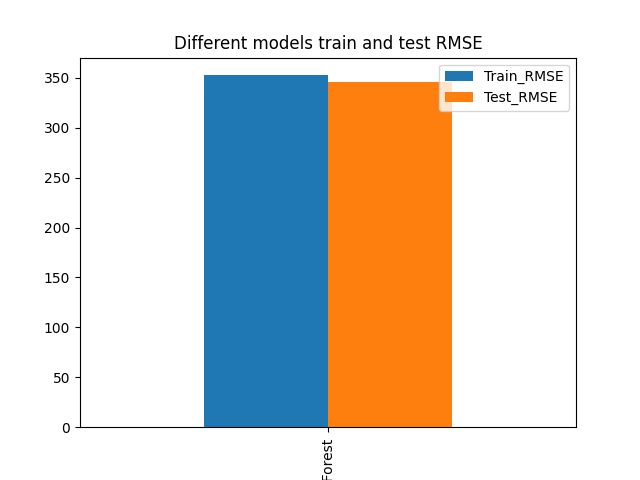
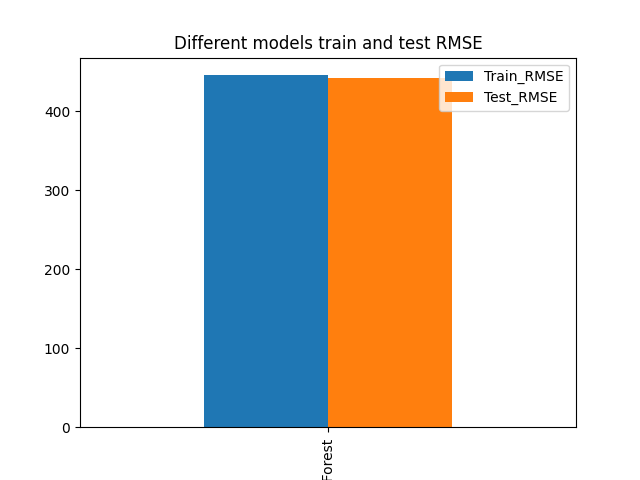
experiment ran

diff --git a/reports/metrics_report.html b/reports/metrics_report.html
@@ -9,22 +9,22 @@
             <h1>Comparative charts for Different scoring metrics of the models</h1>
             
                 <div>
-                    <img src="C:\Users\Aman Gupta\test\nyc_taxi_trip_duration_predictor\reports\figures\scoring_metrices\Different models train and test MAE.png" alt="Different models train and test MAE.png">
+                    <img src="C:\Users\Aman Gupta\NYC-Taxi-Trip-Duration-Predictor\reports\figures\scoring_metrices\Different models train and test MAE.png" alt="Different models train and test MAE.png">
                     <br>
                 </div>
             
                 <div>
-                    <img src="C:\Users\Aman Gupta\test\nyc_taxi_trip_duration_predictor\reports\figures\scoring_metrices\Different models train and test R2_SCORE.png" alt="Different models train and test R2_SCORE.png">
+                    <img src="C:\Users\Aman Gupta\NYC-Taxi-Trip-Duration-Predictor\reports\figures\scoring_metrices\Different models train and test R2_SCORE.png" alt="Different models train and test R2_SCORE.png">
                     <br>
                 </div>
             
                 <div>
-                    <img src="C:\Users\Aman Gupta\test\nyc_taxi_trip_duration_predictor\reports\figures\scoring_metrices\Different models train and test RMSE.png" alt="Different models train and test RMSE.png">
+                    <img src="C:\Users\Aman Gupta\NYC-Taxi-Trip-Duration-Predictor\reports\figures\scoring_metrices\Different models train and test RMSE.png" alt="Different models train and test RMSE.png">
                     <br>
                 </div>
             
                 <div>
-                    <img src="C:\Users\Aman Gupta\test\nyc_taxi_trip_duration_predictor\reports\figures\scoring_metrices\Different models train and test RMSPE.png" alt="Different models train and test RMSPE.png">
+                    <img src="C:\Users\Aman Gupta\NYC-Taxi-Trip-Duration-Predictor\reports\figures\scoring_metrices\Different models train and test RMSPE.png" alt="Different models train and test RMSPE.png">
                     <br>
                 </div>
             

diff --git a/deployement/app.py b/deployement/app.py
@@ -1,6 +1,6 @@
 from flask import Flask, render_template, request
 from predictor import TripDurationPredictor
-
+from logger import infologger
 
 app = Flask(__name__)
 
@@ -20,12 +20,15 @@ def predict():
     form_data['dropoff_longitude'] = request.form.get('dropoff_longitude',type=float)
     form_data['pickup_datetime'] = request.form.get('pickup_datetime')
     form_data['store_and_fwd_flag'] = request.form.get('store_and_fwd_flag')
-    print(form_data)
-    duration = TripDurationPredictor()
-    pred = duration.predict_duration(form_data)[0].item()
-    pred_time = round(pred/60,2)
-
-    return render_template('predict.html',pred_time = pred_time)
+    try:
+        duration = TripDurationPredictor()
+        pred = duration.predict_duration(form_data)[0].item()
+        pred_time = round(pred/60,2)
+        return render_template('predict.html',pred_time = pred_time)
+    
+    except Exception as e:
+         infologger.info(f'Failed with error : {e}')
+         print(f'Failed with error : {e}')
 
 
 if __name__ == "__main__":

diff --git a/src/features/build_features.py b/src/features/build_features.py
@@ -169,7 +169,7 @@ class BuildFeatures:
 @click.command()
 @click.argument('input_filepath', type=click.Path())
 @click.argument('output_filepath', type=click.Path())
-@click.argument('modelpath', type= click.Path())
+@click.argument('model_filepath', type= click.Path())
 def main(input_filepath, output_filepath, model_filepath):
     
     """ Runs feature building script to turn train and test data from given input path
@@ -182,7 +182,7 @@ def main(input_filepath, output_filepath, model_filepath):
     data_dir = Path(home_dir.as_posix() + '/data')
     input_path = Path(data_dir.as_posix() + input_filepath)
     output_path = Path(data_dir.as_posix() + output_filepath)
-    locmodel_path = Path(data_dir.as_posix() + model_filepath)
+    locmodel_path = Path(home_dir.as_posix() + model_filepath)
 
     #initiating a class object 
     feat = BuildFeatures()

diff --git a/src/models/hyperparameters.py b/src/models/hyperparameters.py
@@ -18,8 +18,8 @@ hyperparameters = {
             },
     'RandomForest': 
            {
-                'n_estimators' : hp.choice('n_estimators', [50,80,120]), 
-                'max_depth': hp.choice('max_depth', [8,10,15,20,30,40 ]), 
+                'n_estimators' : hp.choice('n_estimators', [5,8,10]), 
+                'max_depth': hp.choice('max_depth', [6,8,10 ]), 
                 'max_features': hp.choice('max_features', ['sqrt', 'log2', None]),
                 'min_samples_split': scope.int(hp.uniform('min_Samples_split',200,400)),
                 'max_samples': hp.uniform('max_sample',0.4,0.8)

diff --git a/src/models/train_model.py b/src/models/train_model.py
@@ -38,7 +38,7 @@ class TrainModel:
         self.output_path = output_path
         self.home_dir = home_dir
         self.hyperopt_algo = tpe.suggest
-        self.hyperopt_max_eval = 40
+        self.hyperopt_max_eval = 2
         self.trials = Trials()
 
         #logreg for logistic regression checking if model needs to be build is logistic regression
